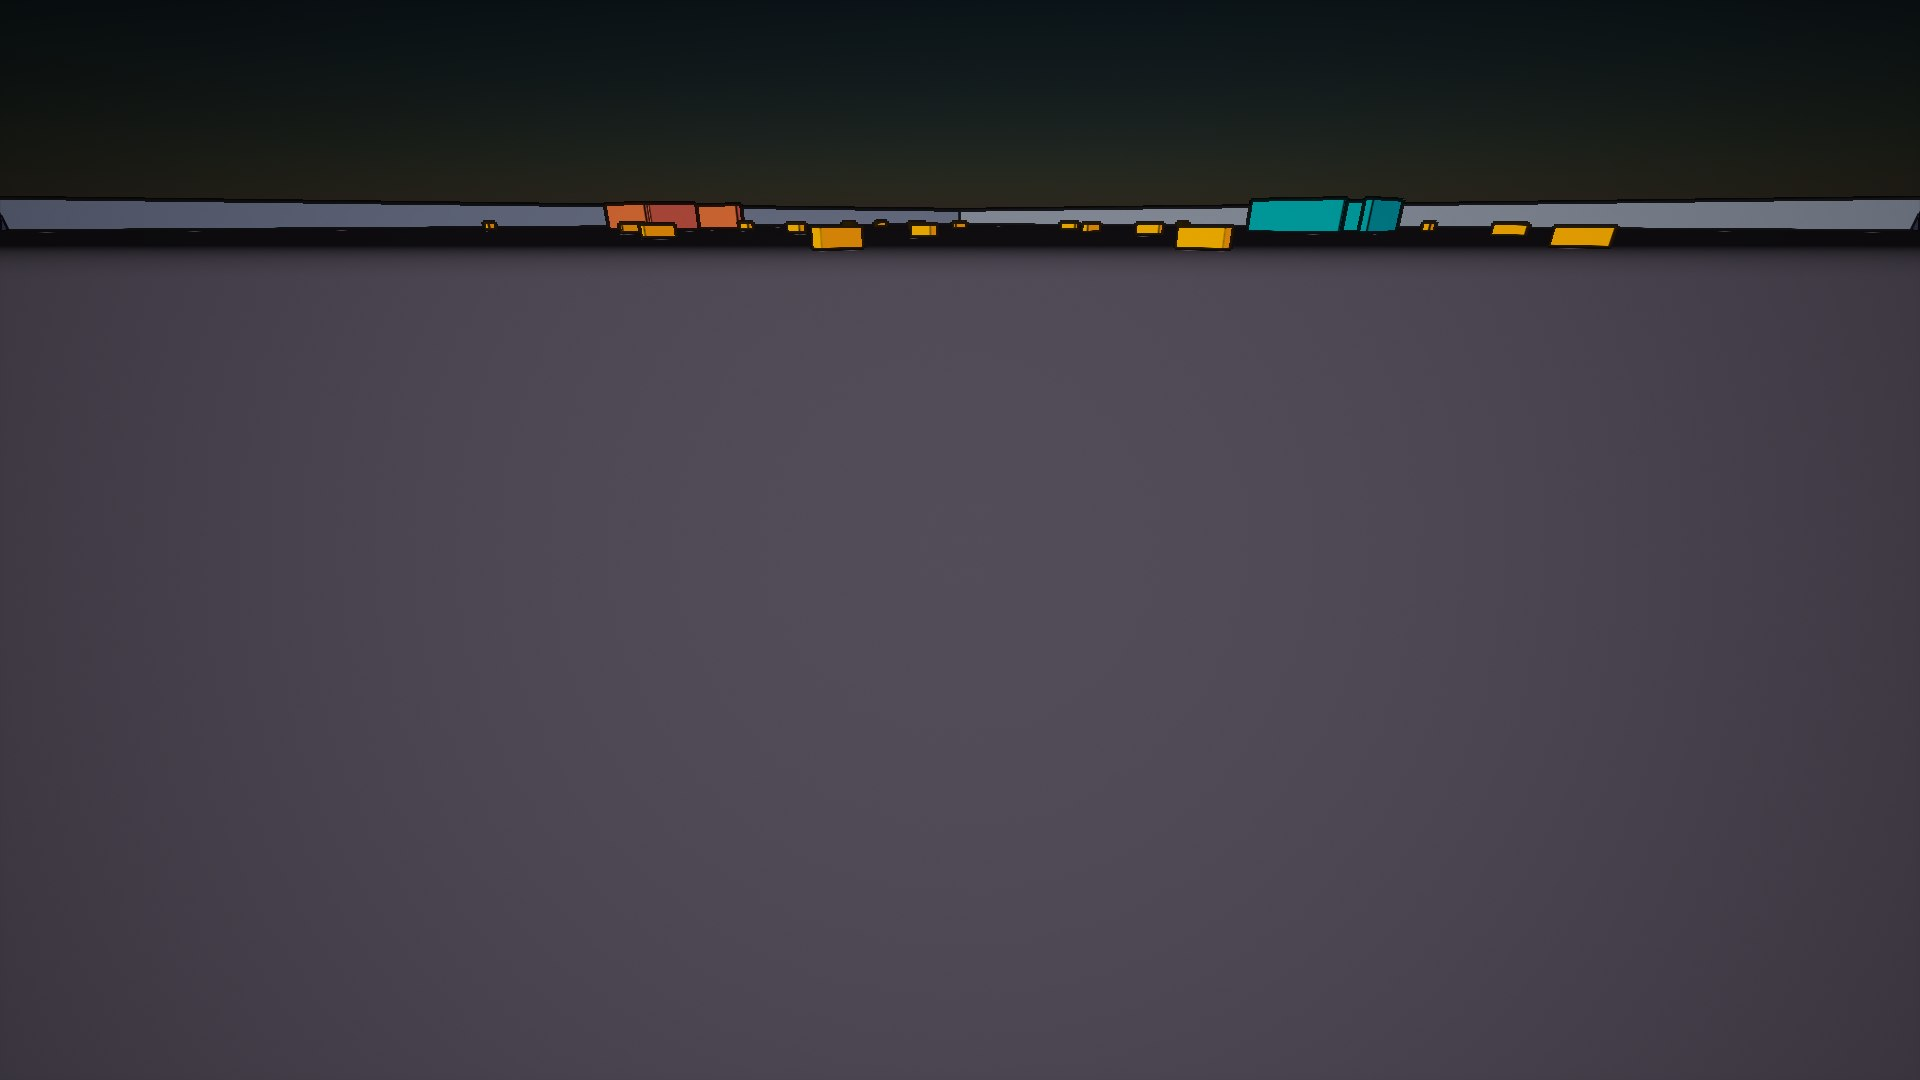
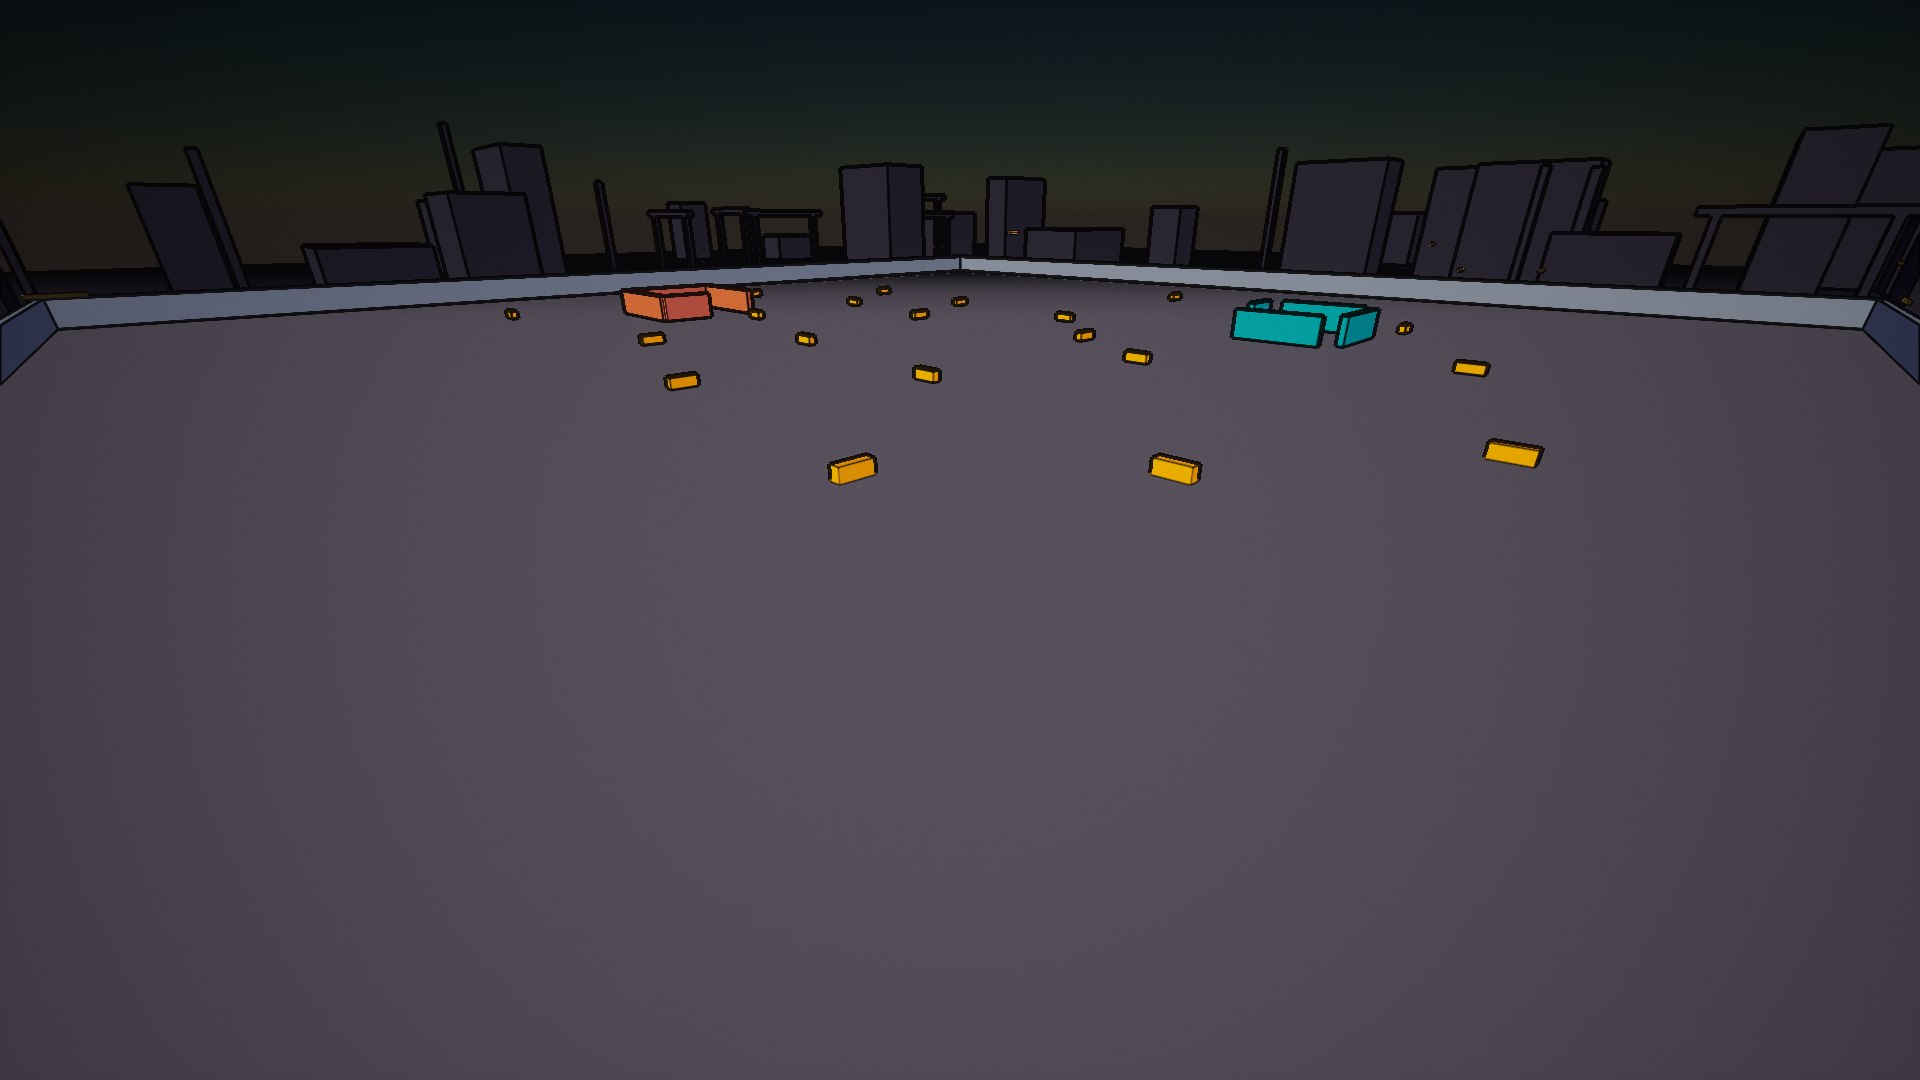
[Repo] Record the skyline/fidelity pass (handoff, dashboard, gallery)

diff --git a/progress_data.js b/progress_data.js
@@ -3,7 +3,7 @@
 // en worden door Tools/update_progress.ps1 gegenereerd — daar blijf je vanaf.
 // Regels: percentages zijn eerlijk (liever te laag dan gejokt); geen HTML hier, alleen data.
 window.PROGRESS_DATA = {
-  bijgewerkt: "2026-07-22 21:35",
+  bijgewerkt: "2026-07-22 21:50",
   hero: { label: "Hele game", pct: 8 },
   playtestChip: "PIE-playtest door eigenaar: OPEN (gate-vraag 13.2)",
 
@@ -43,10 +43,10 @@ window.PROGRESS_DATA = {
       totaal: 14,
       items: [
         { naam: "Art-richting gelockt (Borderlands-stilering)", pct: 100, notitie: "Owner-revisie 22-07: scherpere fidelity bínnen de stijl (15.5)." },
-        { naam: "Cel/toon-materiaal (banden + hatching, M_EclipseToon)", pct: 95, notitie: "Geauthord + live geverifieerd op de sterke PC; hatch-schaal leest nog als golfplaat — tunen." },
+        { naam: "Cel/toon-materiaal (banden + hatching, M_EclipseToon)", pct: 100, notitie: "Live geverifieerd; hatching leest nu als penseelstroken (25% duty, periode 120)." },
         { naam: "Ink-outline post-materiaal", pct: 85, notitie: "PP_EclipseInk LIVE bewezen: Sobel→Laplaciaan-fix (scherende vloer vloeide vol inkt); silhouet- + naadlijnen schoon." },
-        { naam: "Belichting / mood", pct: 80, notitie: "SM5-kalibratie gebankt; eerste SM6-shotronde (sterke PC) rendert de schemer-mood correct." },
-        { naam: "Kleurenpalet & blok-dressing", pct: 35, notitie: "Lit/shade-paren met hue-shift per bloktype." },
+        { naam: "Belichting / mood", pct: 85, notitie: "SM6-pad live: volumetric smog + zon-schaduwen + skylight + film grain (15.5-revisie); lit-toon-migratie (echte Lumen-GI) is de volgende milestone." },
+        { naam: "Kleurenpalet & blok-dressing", pct: 50, notitie: "Lit/shade-paren met hue-shift per bloktype + Kessara-skyline-ring (code-built: hulks, schoorstenen, kraanportalen, natrium-raamstroken)." },
         { naam: "Gebouwen (echte kits)", pct: 10 },
         { naam: "Straten / props / decals", pct: 5 },
         { naam: "Bomen / vegetatie", pct: 0, notitie: "Eerste vegetatie Phase 3 (Sylvaris)." },
@@ -90,9 +90,16 @@ window.PROGRESS_DATA = {
     { file: "progress_media/shot_03.jpg", caption: "Cover-veld (review-camera 3)" },
     { file: "progress_media/shot_04.jpg", caption: "Overzicht district (review-camera 4)" }
   ],
-  screenshotNoot: "Sterke PC (GTX 1080 Ti, SM6, Scalability 3) — eerste ronde mét werkende PP_EclipseInk-inktlijnen; camera 4 kadreert laag (pawn zakt vóór capture — rig-punt).",
+  screenshotNoot: "Sterke PC (GTX 1080 Ti, SM6, Scalability 3) — derde ronde vandaag: inktlijnen + hatch-tuning + Kessara-skyline (code-built) + SM6-smog/grain; camera 4 kadreert nu het hele district.",
 
   changelog: [
+    { datum: "Sessie 2026-07-22 (avond, sterke PC — vervolg)", punten: [
+      "Shot-rig gefixt: pawn in flying-mode tijdens de rig — overview-camera 4 kadreert nu het hele district (viel eerst 2 s naar de grond vóór elke capture).",
+      "Hatch-tuning: 25% duty + periode 120 — schaduw-arcering leest als penseelstroken, niet meer als golfplaat.",
+      "SM6-fidelitypad in de builder (feature-level-gated, laptop onaangetast): volumetric smog + zon-schaduwen (lichtschachten), realtime skylight, film grain 0.07 + bloom 0.45 per de 15.5-revisie.",
+      "KESSARA-SKYLINE (03.3, code-built placeholder): deterministische ring (seed 503) buiten de perimeter — 56 fabriekshulks, 18 schoorstenen, 12 kraanportalen, natrium-raamstroken; het district staat nu in een stad. Buiten nav/missies, tests onaangetast.",
+      "Groene bar na alles opnieuw: build ✓, 31/31 ✓, validatie 0 ✓, catalog 19/19 ✓."
+    ]},
     { datum: "Sessie 2026-07-22 (avond, sterke PC)", punten: [
       "Eerste sessie op de sterke PC: groene bar onafhankelijk herbevestigd (build ✓, 31/31 tests ✓, validatie 0 fouten ✓, catalog 19/19 ✓).",
       "Machine gemeten: GTX 1080 Ti 11 GB — SM6 met Nanite/VSM/TSR/software-Lumen, géén RT-cores (HWRT-validatie blijft RTX-werk); charter 15.2 bijgewerkt.",

diff --git a/HANDOFF.md b/HANDOFF.md
@@ -148,7 +148,9 @@ The clean mechanism is **git**. The bible + code are already **one repo** (§2),
 - *Graphics-kalibratie (taak A) — inktlijnen LIVE:* beide materiaal-scripts gedraaid (`M_EclipseToon` banden 0.55/0.10; `PP_EclipseInk`). Eerste live-ronde onthulde een klassiek depth-Sobel-artefact: **de scherende vloer vloeide vol inkt** (heel middenveld zwart). Fix: edge-detectie omgebouwd naar **Laplaciaan (2e afgeleide)** in `author_outline_material.py` — vlak-interieurs schoon onder elke kijkhoek, silhouetten + gevel-vloer-naden krijgen wél lijn. Tweede shotronde geverifieerd: vloer loopt door tot de horizon, lijnen schoon, schemerpalet staat. Galerij (`progress_media/shot_01..04.jpg`) ververst.
 - *Kleine carry-over:* rename `Entries`→`EntryPoints` van de installateur gecommit (gedragsneutraal, groen geverifieerd).
 
-**Bekende volgende zwakste punten (15.8-lijst voor de volgende pass):** (1) hatch-strepen op de schaduwband lezen als golfplaat i.p.v. arcering — HatchScale/Strength tunen; (2) review-camera 4 kadreert te laag: de pawn zakt tijdens de 2 s vóór capture van Z=1500 naar de grond — shot-rig een spectator-achtige camera geven; (3) daarna de echte fidelity-pass per de herziene 15.5 (taak B): software-Lumen-GI aan voor de district-scène, SSAO/film grain in de post-stack, particles.
+**Vervolg diezelfde avond (alles groen + gepusht):** (1) shot-rig gefixt — pawn vliegt tijdens de rig, camera 4 kadreert nu het hele district; (2) hatch-tuning — arcering leest als penseelstroken (25% duty, periode 120); (3) SM6-fidelitypad in de builder, feature-level-gated zodat de SM5-laptop identiek blijft: volumetric smog, zon-schaduwen (lichtschachten door de silhouetten), realtime skylight, film grain 0.07 + bloom 0.45 (15.5-revisie); (4) **Kessara-skyline** (03.3) als code-built placeholder: deterministische ring (seed 503) buiten de perimeter — 56 fabriekshulks, 18 schoorstenen, 12 kraanportalen, natrium-oranje raamstroken; het district staat nu visueel in een stad, zonder één nav/missie/test-raakvlak.
+
+**Bekende volgende zwakste punten (15.8-lijst voor de volgende pass):** (1) de voorgrond-vloer is een groot leeg vlak — straat-dressing (decals/markering/klein grut) of donkerder gradiënt; (2) glow-raamstroken zijn schaars zichtbaar vanaf de grond — dichtheid/plaatsing itereren; (3) de **lit-toon-migratie** (banden uit echt N·L + VSM-schaduw + software-Lumen-GI op lit district-materiaal) — dat is de echte 15.5-revisie-milestone; SSAO wordt dan pas zinvol (no-op op unlit emissive); (4) particles (vonken/as/embers) per de revisie.
 
 **Owner-afspraken die blijven gelden (elke sessie):** geen installaties/downloads/acceptatie-prompts zonder expliciet akkoord vooraf (eerst uitleggen waarvoor); bouwen met `-NoUba`; PROGRESS.html nooit bewerken (data in `progress_data.js`; `progress_auto.js` is van de watcher). `gh` is hier NIET geïnstalleerd — push werkt via de vault-token in Windows Credential Manager (username gepind in repo-config).
 
